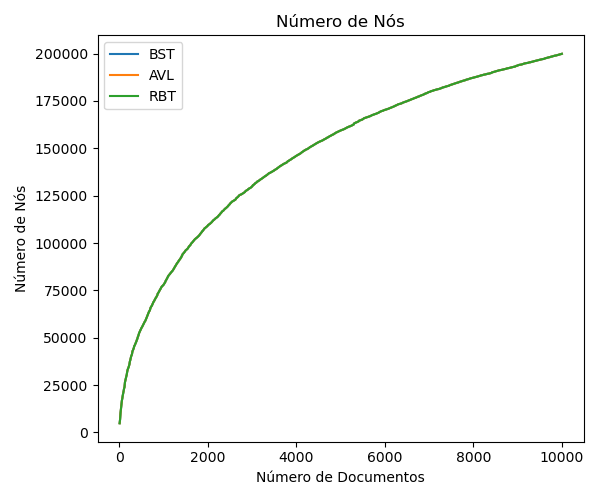
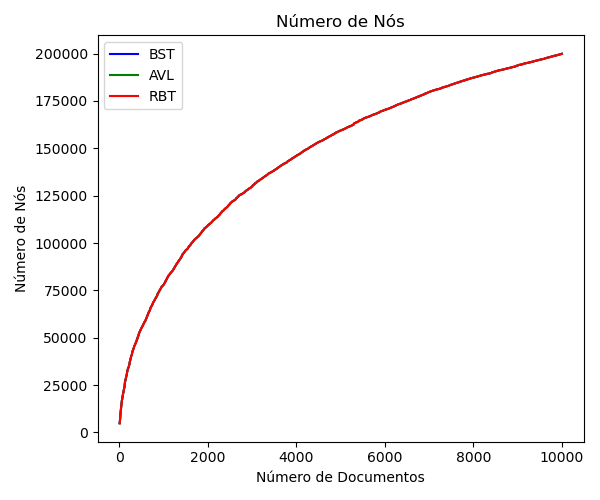
graphs fix

diff --git a/docs/visualizations.py b/docs/visualizations.py
@@ -7,9 +7,9 @@ rbt = pd.read_csv("docs/dados_rbt.csv")
 col_names = bst.columns[1:]
 
 def plot_graph(ax, col_name, title, ylabel):
-    ax.plot(bst["N_docs"], bst[col_name], label="BST")
-    ax.plot(avl["N_docs"], avl[col_name], label="AVL")
-    ax.plot(rbt["N_docs"], rbt[col_name], label="RBT")
+    ax.plot(bst["N_docs"], bst[col_name], label="BST", color="blue")
+    ax.plot(avl["N_docs"], avl[col_name], label="AVL", color="green")
+    ax.plot(rbt["N_docs"], rbt[col_name], label="RBT", color="red")
     ax.set_xlabel("Número de Documentos")
     ax.set_ylabel(ylabel)
     ax.set_title(title)
@@ -18,9 +18,9 @@ def plot_graph(ax, col_name, title, ylabel):
 def save_branch_graph(col_name_1, col_name_2, title):
     _, axes = plt.subplots(1, 1, figsize=(6, 5)) 
     plot_graph(axes, col_name_1, title, "Tamanaho do Galho")
-    axes.plot(avl["N_docs"], avl[col_name_2], color="#ff7f0e")
-    axes.plot(bst["N_docs"], bst[col_name_2], color="#1f77b4")
-    axes.plot(rbt["N_docs"], rbt[col_name_2], color="#2ca02c")
+    axes.plot(avl["N_docs"], avl[col_name_2], color="green")
+    axes.plot(bst["N_docs"], bst[col_name_2], color="blue")
+    axes.plot(rbt["N_docs"], rbt[col_name_2], color="red")
     plt.tight_layout()
     plt.savefig(f'docs/graphs/grafico_branchs.png')
     plt.close()
@@ -32,23 +32,30 @@ def save_simple_graph(col_name, title):
     plt.savefig(f'docs/graphs/grafico_{col_name}.png')
     plt.close()
 
-def save_double_graph(col_name_1, col_name_2, pre, mid, title, path):
+def save_double_graph(col_name_1, col_name_2, pre, mid, title, path, log1=False, log2=False):
     _, axes = plt.subplots(1, 2, figsize=(12, 5))  
     if pre == "Tempo":
+        if log1:
+            axes[0].set_yscale("log")
         plot_graph(axes[0], col_name_1, pre + " Médio " + title, "Tempo (em milissegundos)")
+        if log2:
+            axes[1].set_yscale("log")
         plot_graph(axes[1], col_name_2, pre + " " + mid + " " + title, "")
     elif pre == "Número":
+        if log1:
+            axes[0].set_yscale("log")
         plot_graph(axes[0], col_name_1, pre + " Médio " + title, "Número de Comparações")
+        if log2:
+            axes[1].set_yscale("log")
         plot_graph(axes[1], col_name_2, pre + " " + mid + " " + title, "")
-    # plt.tight_layout(rect=[0, 0, 1, 0.95])
     plt.tight_layout()
     plt.savefig(f'docs/graphs/grafico_{path}.png')
     plt.close()
 
 save_double_graph(col_names[0], col_names[1], pre="Tempo", mid="Total", 
                   title="de Inserção", path="ExecutionTimeInsertion")
-save_double_graph(col_names[2], col_names[3], pre="Tempo", mid="Máximo", 
-                  title="de Busca de uma Palavra", path="ExecutionTimeSearch")
+save_double_graph(col_names[2], col_names[3], pre="Tempo", mid="Máximo (em log)", 
+                  title="de Busca de uma Palavra", path="ExecutionTimeSearch", log2=True)
 save_double_graph(col_names[4], col_names[5], pre="Número", mid="Total", 
                   title="de Comparações para Inserção", path="NumComparisonsInsertion")
 save_double_graph(col_names[6], col_names[7], pre="Número", mid="Máximo", 
@@ -62,9 +69,9 @@ save_simple_graph(col_names[12], title="Tamanho da Árvore (bytes)")
 
 #Tamanho da arvore pelo numero de nós BST
 plt.figure()
-plt.plot(bst['TreeHeight'], 2**(bst['TreeHeight'] + 1) -1, label="max", linestyle="--", color="darkorange")
-plt.plot(bst['TreeHeight'], bst['NumNodes'], label="BST", color="green")
-plt.plot(bst['TreeHeight'], bst['TreeHeight'] + 1, label="min", linestyle="--", color="blue")
+plt.plot(bst['TreeHeight'], 2**(bst['TreeHeight'] + 1) -1, label="max", linestyle="--", color="black")
+plt.plot(bst['TreeHeight'], bst['NumNodes'], label="BST", color="blue")
+plt.plot(bst['TreeHeight'], bst['TreeHeight'] + 1, label="min", linestyle="--", color="black")
 plt.title("Comparação de número de nós pela altura da árvore BST")
 plt.xlabel("Altura da árvore")
 plt.ylabel("Número de Nós (log)")
@@ -76,9 +83,9 @@ plt.close()
 
 #Tamanho da arvore pelo numero de nós AVL
 plt.figure()
-plt.plot(avl['TreeHeight'], 2**(avl['TreeHeight'] + 1) -1, label="max", linestyle="--", color="darkorange")
+plt.plot(avl['TreeHeight'], 2**(avl['TreeHeight'] + 1) -1, label="max", linestyle="--", color="black")
 plt.plot(avl['TreeHeight'], avl['NumNodes'], label="AVL", color="green")
-plt.plot(avl['TreeHeight'], 2**(avl['TreeHeight']/1.44), label="min", linestyle="--", color="blue")
+plt.plot(avl['TreeHeight'], 2**(avl['TreeHeight']/1.44), label="min", linestyle="--", color="black")
 plt.title("Comparação de número de nós pela altura da árvore AVL")
 plt.xlabel("Altura da árvore")
 plt.ylabel("Número de Nós (log)")
@@ -88,11 +95,11 @@ plt.tight_layout()
 plt.savefig(f'docs/graphs/grafico_height_node_avl.png')
 plt.close()
 
-#Tamanho da arvore pelo numero de nós BST
+#Tamanho da arvore pelo numero de nós RBT
 plt.figure()
-plt.plot(rbt['TreeHeight'], 2**(rbt['TreeHeight'] + 1) -1, label="max", linestyle="--", color="darkorange")
-plt.plot(rbt['TreeHeight'], rbt['NumNodes'], label="RBT", color="green")
-plt.plot(rbt['TreeHeight'], 2**(rbt['TreeHeight']/2) -1, label="min", linestyle="--", color="blue")
+plt.plot(rbt['TreeHeight'], 2**(rbt['TreeHeight'] + 1) -1, label="max", linestyle="--", color="black")
+plt.plot(rbt['TreeHeight'], rbt['NumNodes'], label="RBT", color="red")
+plt.plot(rbt['TreeHeight'], 2**(rbt['TreeHeight']/2) -1, label="min", linestyle="--", color="black")
 plt.title("Comparação de número de nós pela altura da árvore RBT")
 plt.xlabel("Altura da árvore")
 plt.ylabel("Número de Nós (log)")
